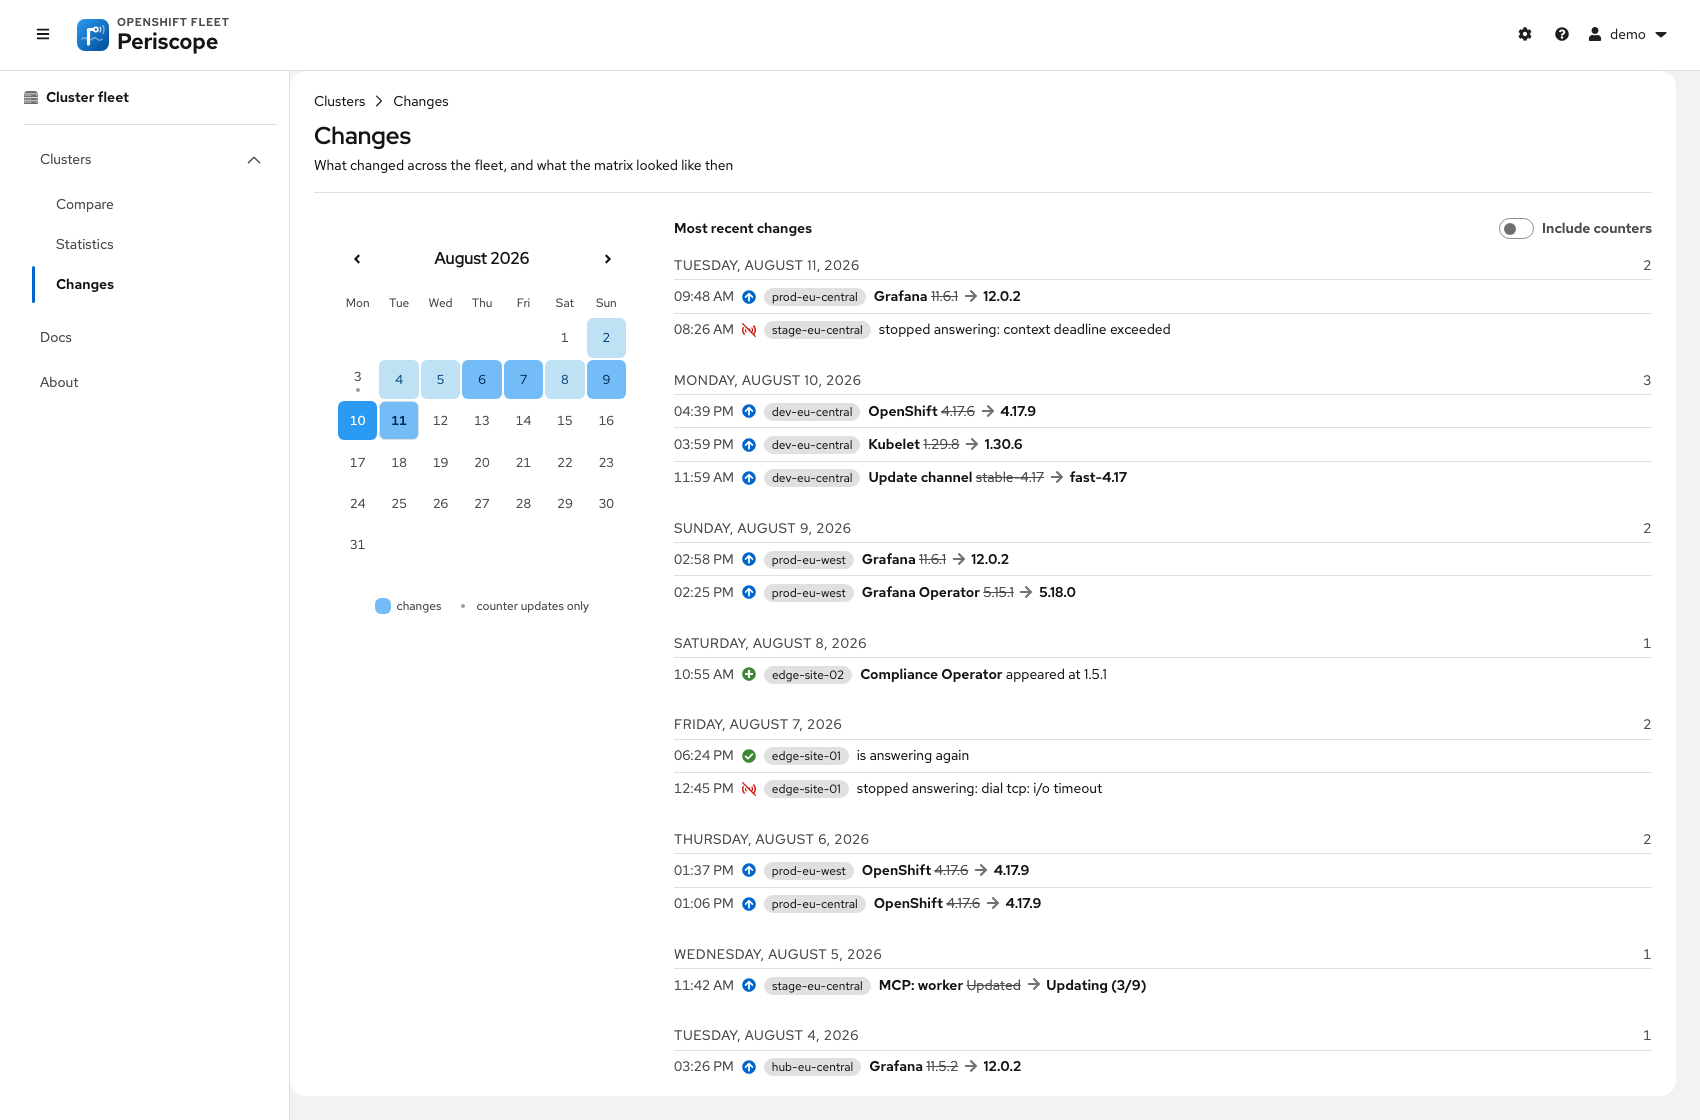
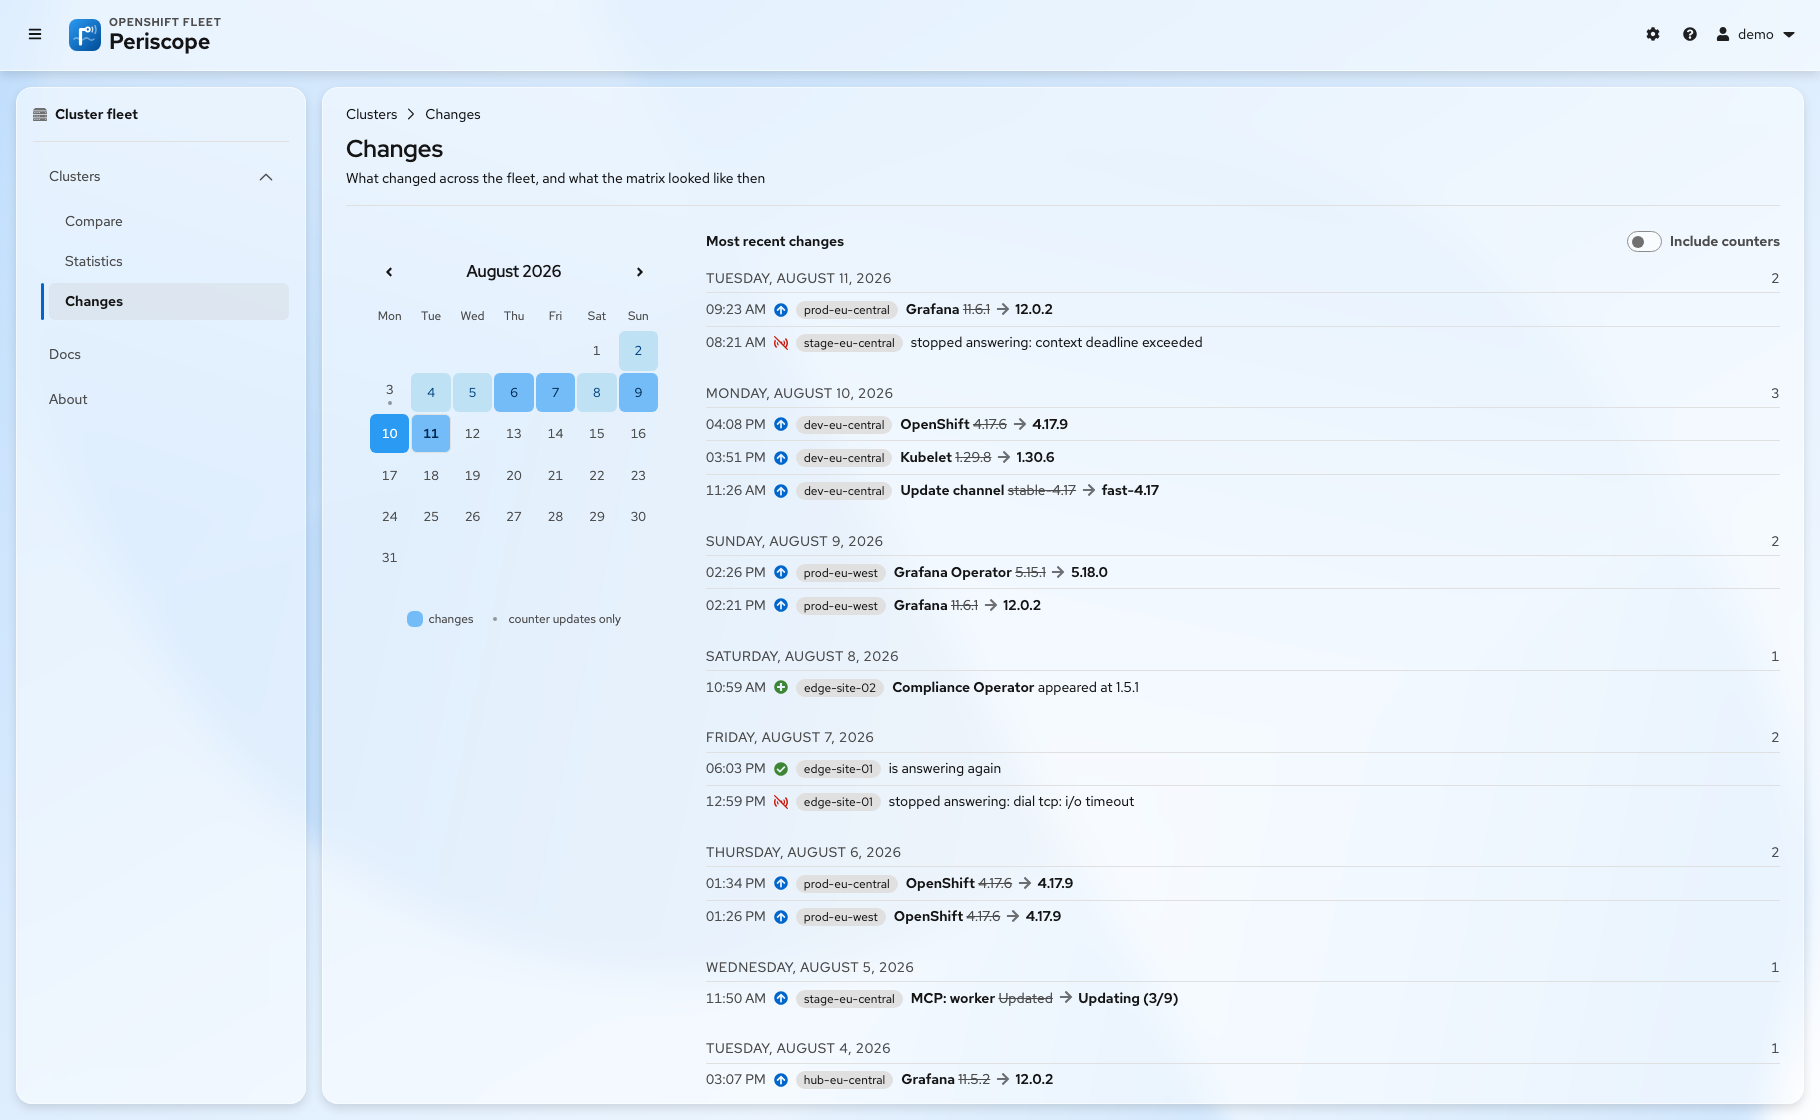
docs: retake the screenshots in the glass theme
Also documents theming, which the README never mentioned: the screenshots
were not in the default contrast and nothing on the page said so, or that
the choice is per reader rather than per fleet.

The Grafana screenshot's caption now describes what that image actually
shows, which is the stronger version of the same point: the operator sits
at the leading version on almost every cluster while the Grafana it runs
still spans two major versions.

Changed region(s): [[0.0, 0.0, 1.0, 1.0], [0.8729, 0.1875, 0.9976, 0.2188]]

diff --git a/README.md b/README.md
@@ -22,8 +22,9 @@ REST API, CSV/JSON export and Prometheus metrics.
 and certificate rows across eight clusters, with the clusters that are behind shaded
 red and one cluster flagged stale](docs/screenshot.png)
 
-*Every screenshot on this page is the real UI, running against the synthetic fleet
-described in [Working on the UI without a cluster](#working-on-the-ui-without-a-cluster).*
+*Every screenshot on this page is the real UI in its glass [theme](#themes), running
+against the synthetic fleet described in
+[Working on the UI without a cluster](#working-on-the-ui-without-a-cluster).*
 
 ## Contents
 
@@ -62,13 +63,22 @@ remembered in the browser's `localStorage`, so it is per reader rather than per 
 hidden clusters still count toward the reference version, and the exports, metrics and
 `report` output still cover everything joined.
 
-![The Compare page filtered to "graf", showing a Grafana row and a Grafana Operator
-row that disagree: the cluster with the newest operator runs an older Grafana than the
-cluster with the oldest one](docs/screenshot-search.png)
+![The Compare page filtered to "graf": the Grafana Operator row sits at the fleet's
+leading version on almost every cluster, while the Grafana row it manages spans three
+versions, two majors apart](docs/screenshot-search.png)
 
-Those two rows are the reason the managed-workload extractors exist. The operator
-version and the version of the thing it manages are different facts, and reading the
-first one tells you nothing about the second.
+Those two rows are the reason the managed-workload extractors exist. The operator is at
+the leading version nearly everywhere, and the Grafana it runs still ranges over two
+major versions. They are different facts, and reading the first tells you nothing about
+the second.
+
+### Themes
+
+The masthead's settings menu carries PatternFly's three theming axes, remembered per
+browser in `localStorage` like the cluster selection: colour scheme (follow the system,
+light, dark), theme (default or Project Felt), and contrast (default, high contrast, or
+the translucent glass used for the screenshots here). Nothing about it is per fleet, so
+readers of the same hub can each have their own.
 
 ### How drift is decided
 
